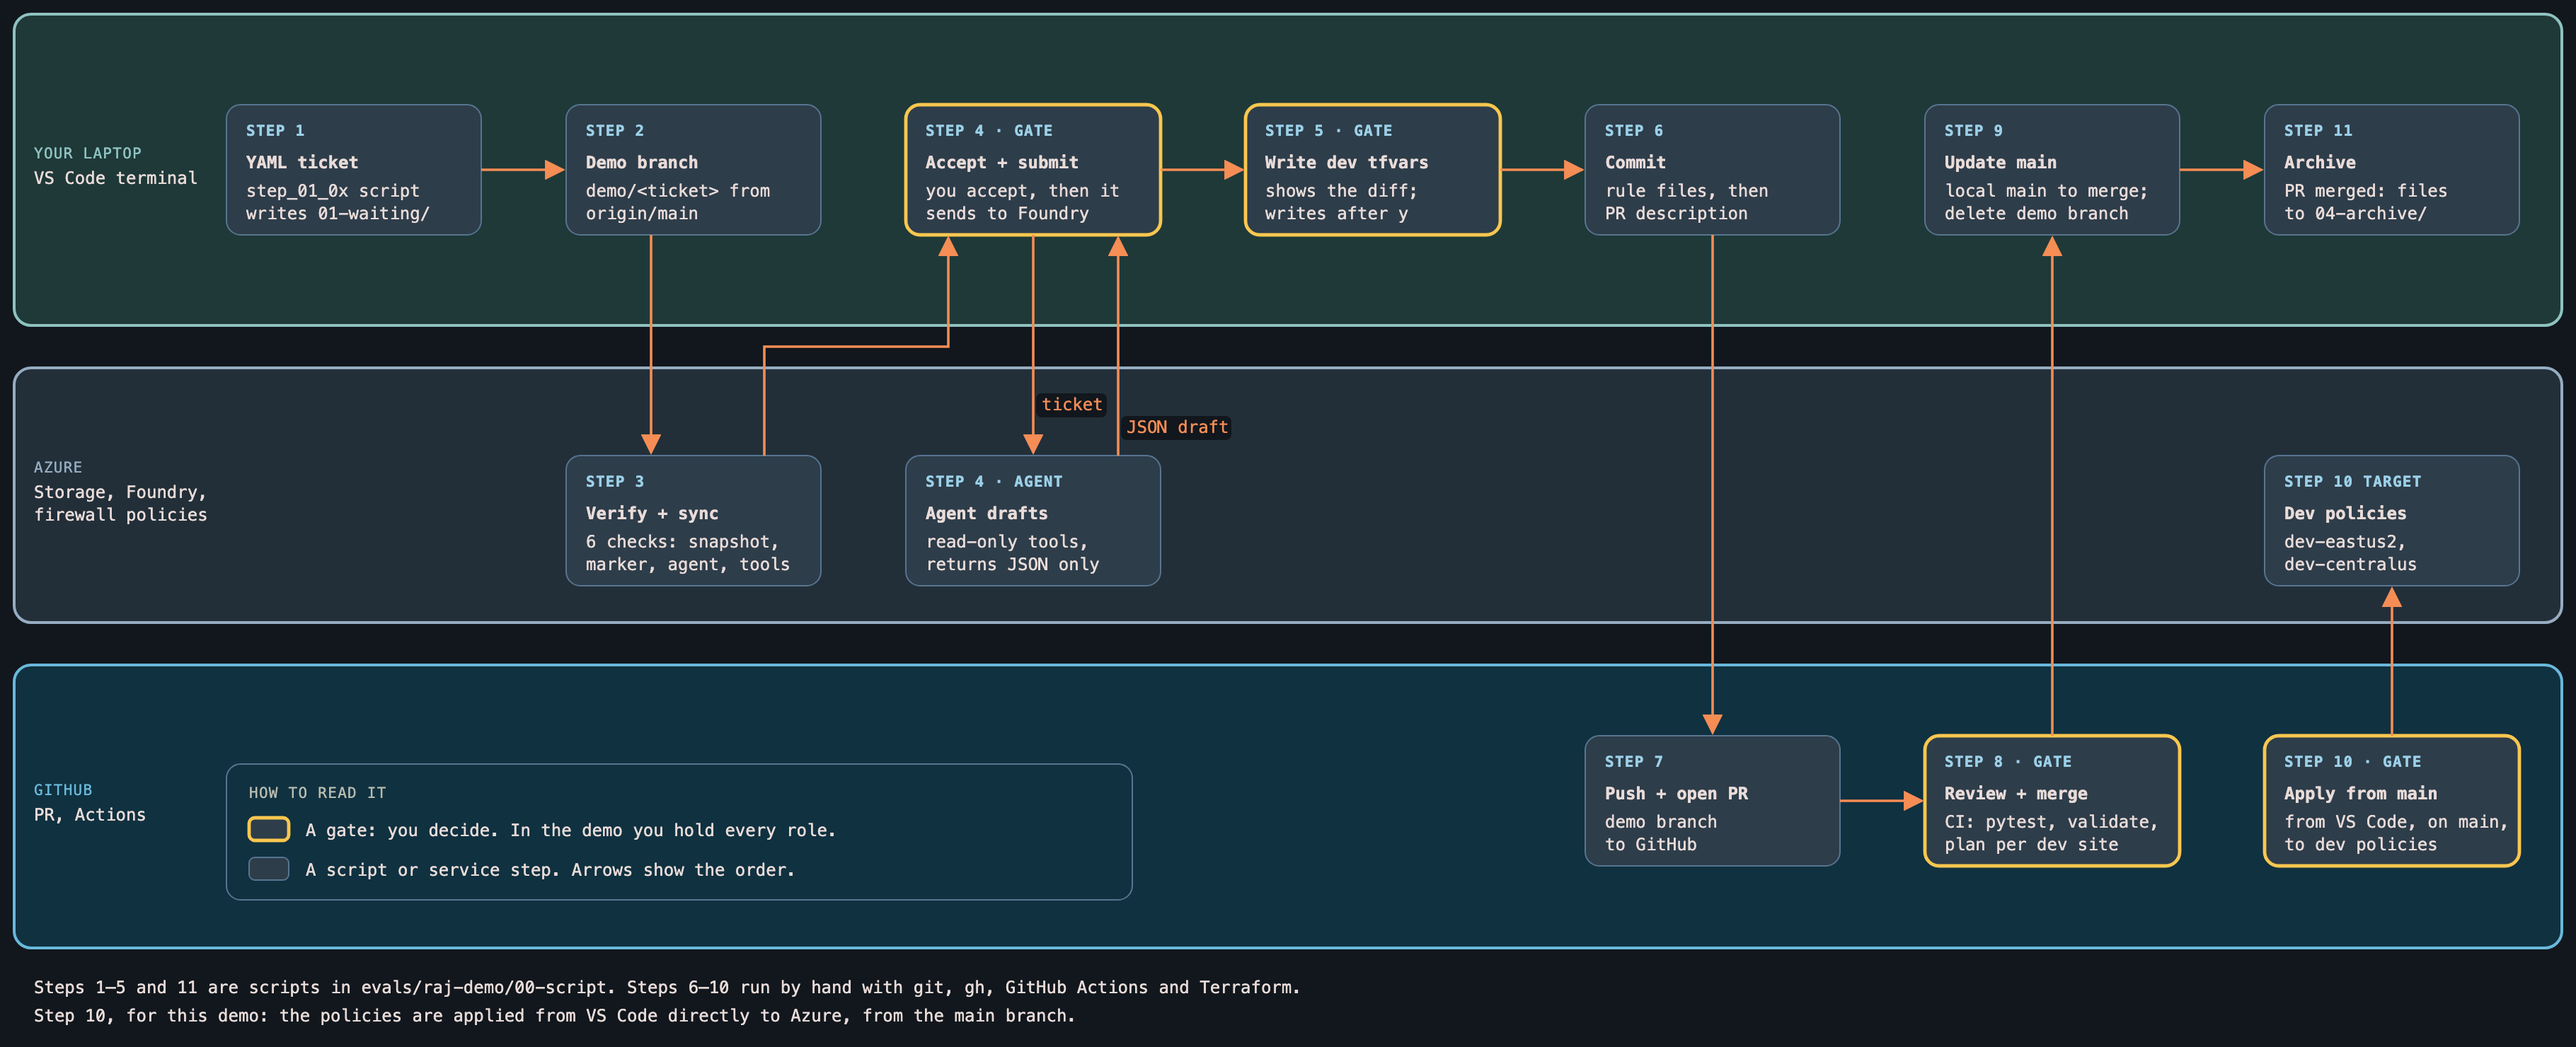
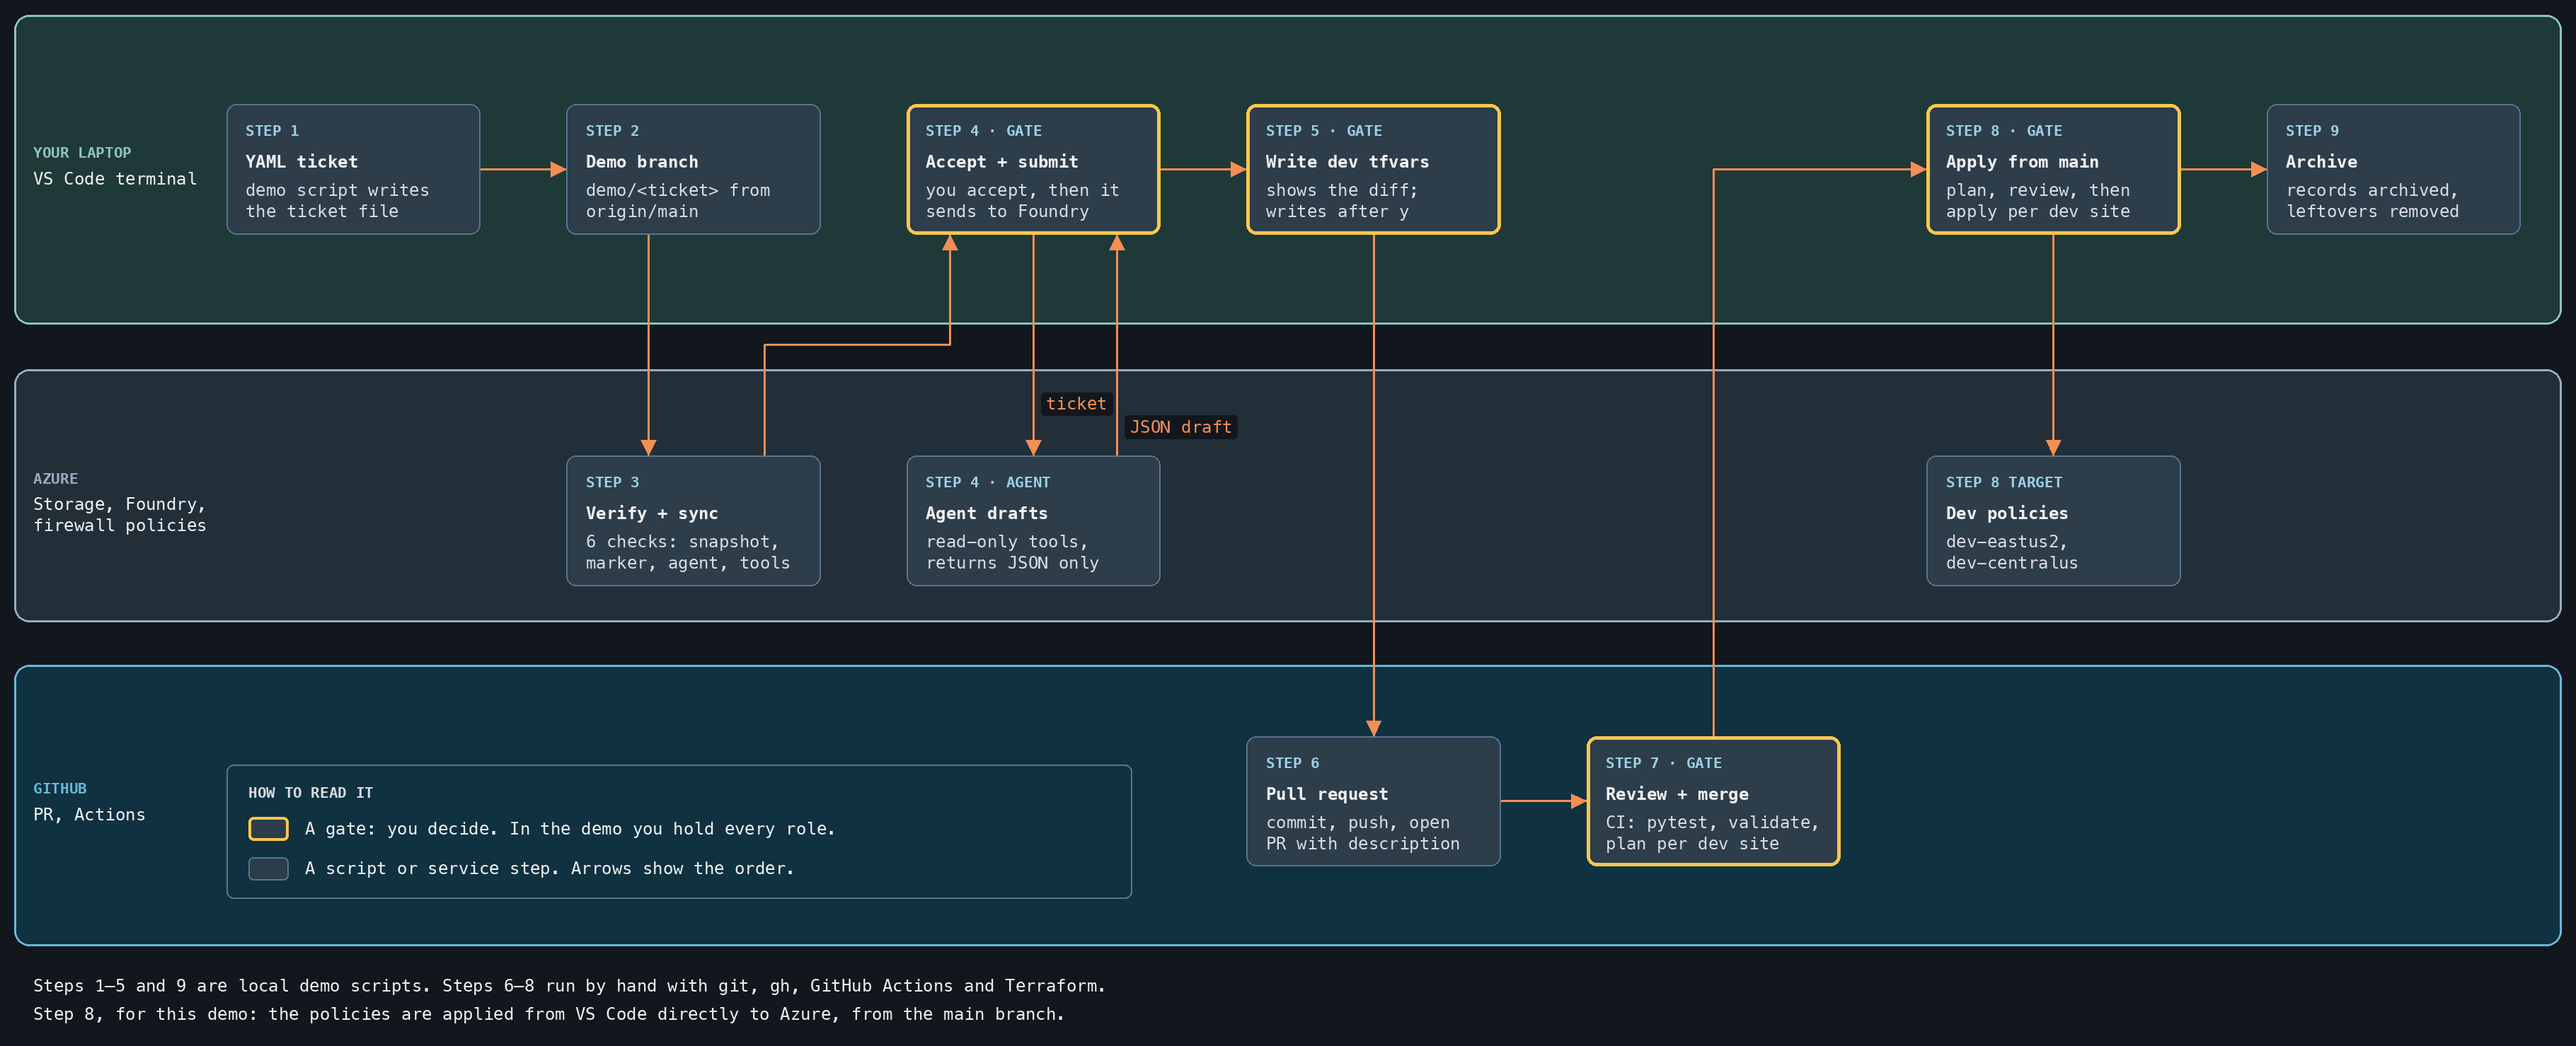
README: redraw the demo flow diagram for the nine walkthrough steps

diff --git a/README.md b/README.md
@@ -32,7 +32,7 @@ The demo's other limits are in [Trade-offs](#trade-offs): the YAML ticket in pla
 
 ## The demo
 
-![Demo flow in eleven steps: a YAML ticket and demo branch on the laptop, sync and the Foundry agent in Azure, then a GitHub pull request, review and merge, and an apply from main to the dev firewall policies](docs/images/demo-flow-steps.png)
+![Demo flow in nine steps: a YAML ticket and demo branch on the laptop, sync and the Foundry agent in Azure, a GitHub pull request, review and merge, an apply from main to the dev firewall policies, then archive](docs/images/demo-flow-steps.png)
 
 The demo runs the same agent, workflow code and checks as the enterprise flow, on a personal Azure subscription. You run each step from your laptop with local demo scripts, helped by a coding assistant in VS Code. Step 4 sends the ticket to the Foundry agent.
 
